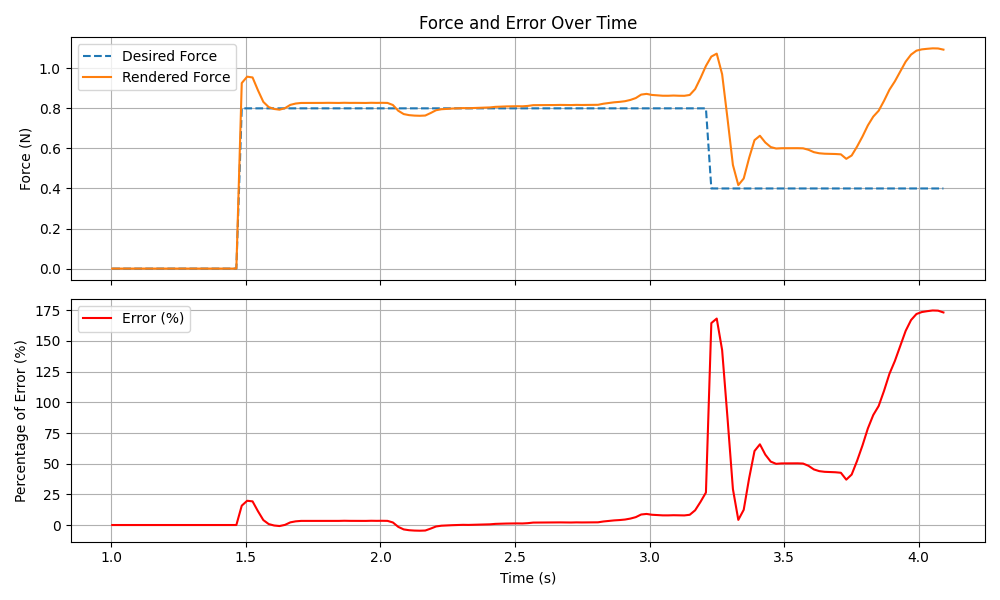
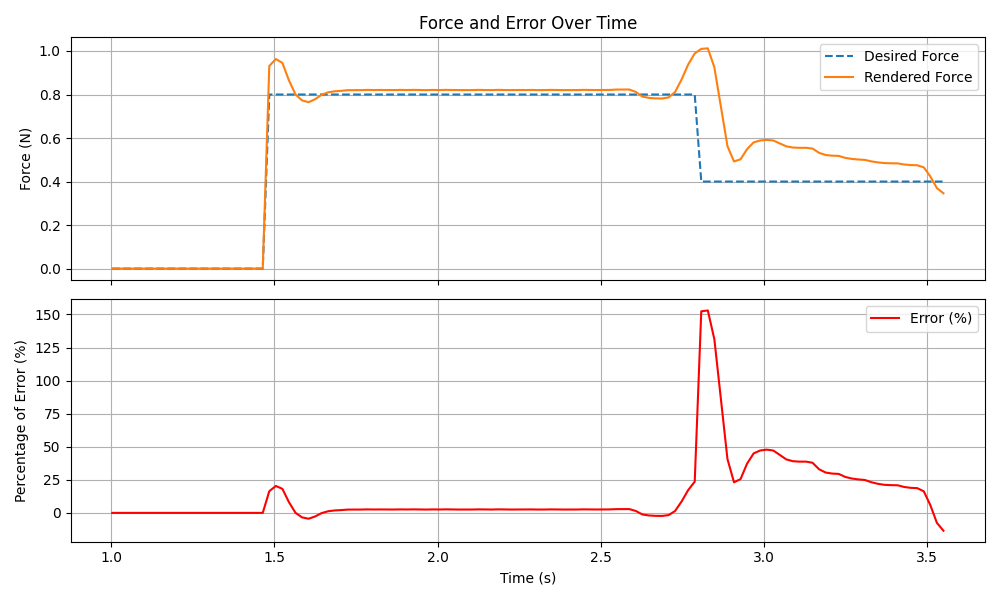
update

diff --git a/friction_render.py b/friction_render.py
@@ -44,7 +44,7 @@ initTime = 1.0  # seconds
 Kp, Ki, Kd = 0.8, 0, 0.05
 alpha = 0.7  # smoothing factor for low-pass filter
 pot_fluc = 0.012
-high_pass_alpha = 0.3
+high_pass_alpha = 0.25
 
 try:
     # while True:
@@ -153,9 +153,9 @@ try:
             pid_scale_factor = 1
             if calibrated:
                 if sliding:
-                    pid_enhance = pid_enhance + 0.4 + np.tanh(abs(positionChange))
+                    pid_enhance = pid_enhance + 0.5 + np.tanh(abs(positionChange))
                 if external_velocity > delta_v:
-                    pid_enhance = pid_enhance + 0.2 + np.tanh(abs(external_velocity))
+                    pid_enhance = pid_enhance + 0.3 + np.tanh(abs(external_velocity))
 
             pid_scale_factor += pid_enhance
 
